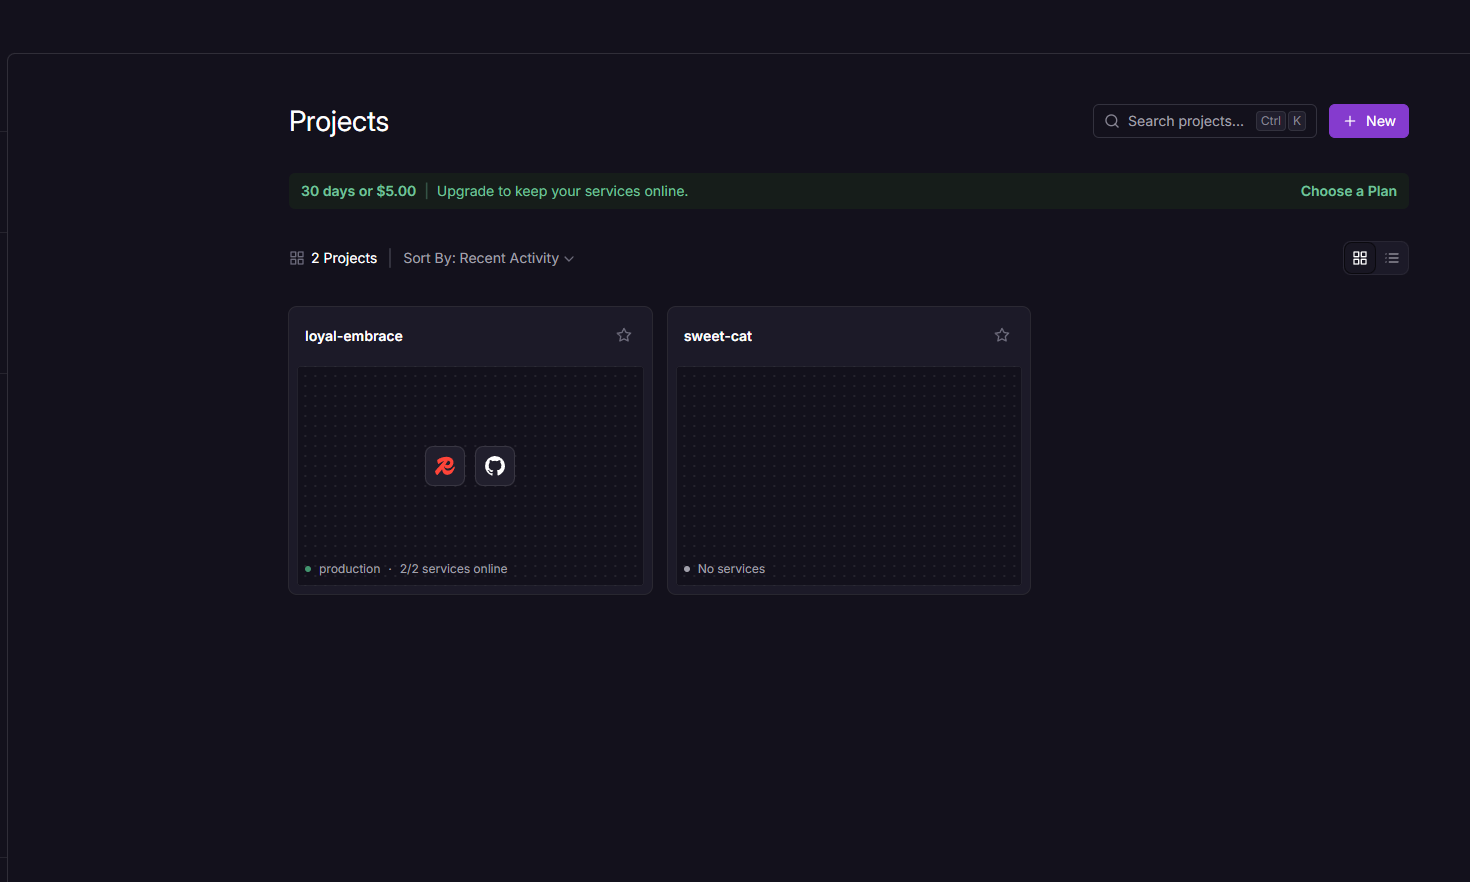
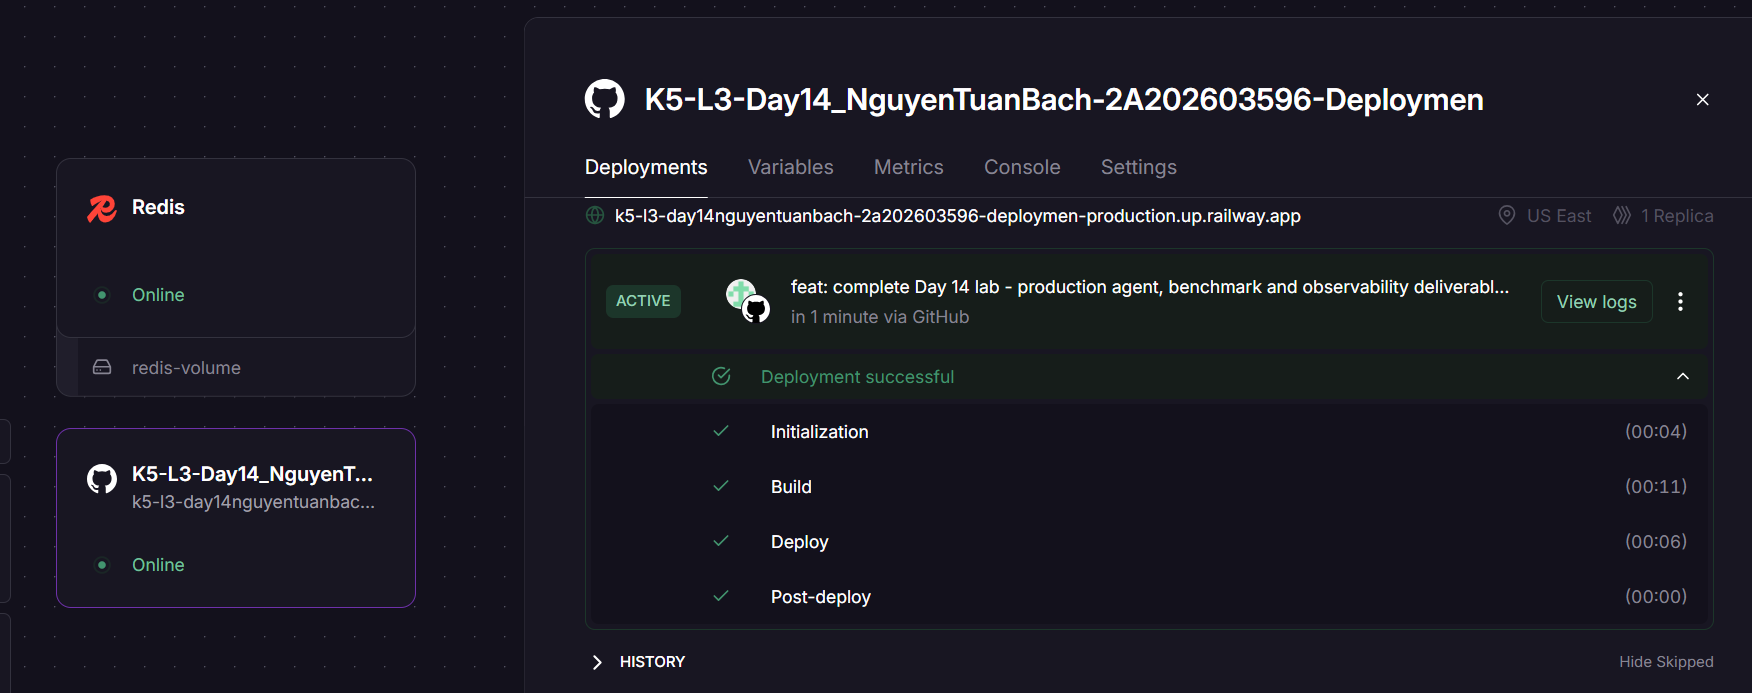
docs: add Railway public URL and deployment screenshots

diff --git a/DEPLOYMENT.md b/DEPLOYMENT.md
@@ -1,17 +1,17 @@
 # Deployment Information
 
-> **CHƯA DEPLOY.** Cần tài khoản Railway/Render của bạn. Điền URL và key sau khi deploy, rồi chụp 3 ảnh trong `screenshots/`.
+> Đã deploy lên Railway. `/health` trả `{"status":"ok"}`. Còn lại: chụp 3 ảnh trong `screenshots/`.
 
 ## Public URL
-`https://<điền-sau-khi-deploy>` (Railway hoặc Render)
+https://k5-l3-day14nguyentuanbach-2a202603596-deploymen-production.up.railway.app
 
 ## Platform
-Railway (`06-lab-complete/railway.toml`) hoặc Render (`06-lab-complete/render.yaml`). Cả hai đã viết sẵn và qua kiểm tra của `check_production_ready.py`.
+Railway (Root Directory `/06-lab-complete`, cấu hình trong `06-lab-complete/railway.toml`).
 
 ## Test Commands
 
 ```bash
-BASE=https://<url>
+BASE=https://k5-l3-day14nguyentuanbach-2a202603596-deploymen-production.up.railway.app
 curl -sS -o /dev/null -w '%{http_code}\n' "$BASE/health"     # 200
 curl -sS -o /dev/null -w '%{http_code}\n' "$BASE/ready"      # 200 (cần REDIS_URL trỏ tới Redis đang chạy)
 curl -sS -o /dev/null -w '%{http_code}\n' -X POST "$BASE/ask" -H 'Content-Type: application/json' -d '{"question":"Hello"}'   # 401
